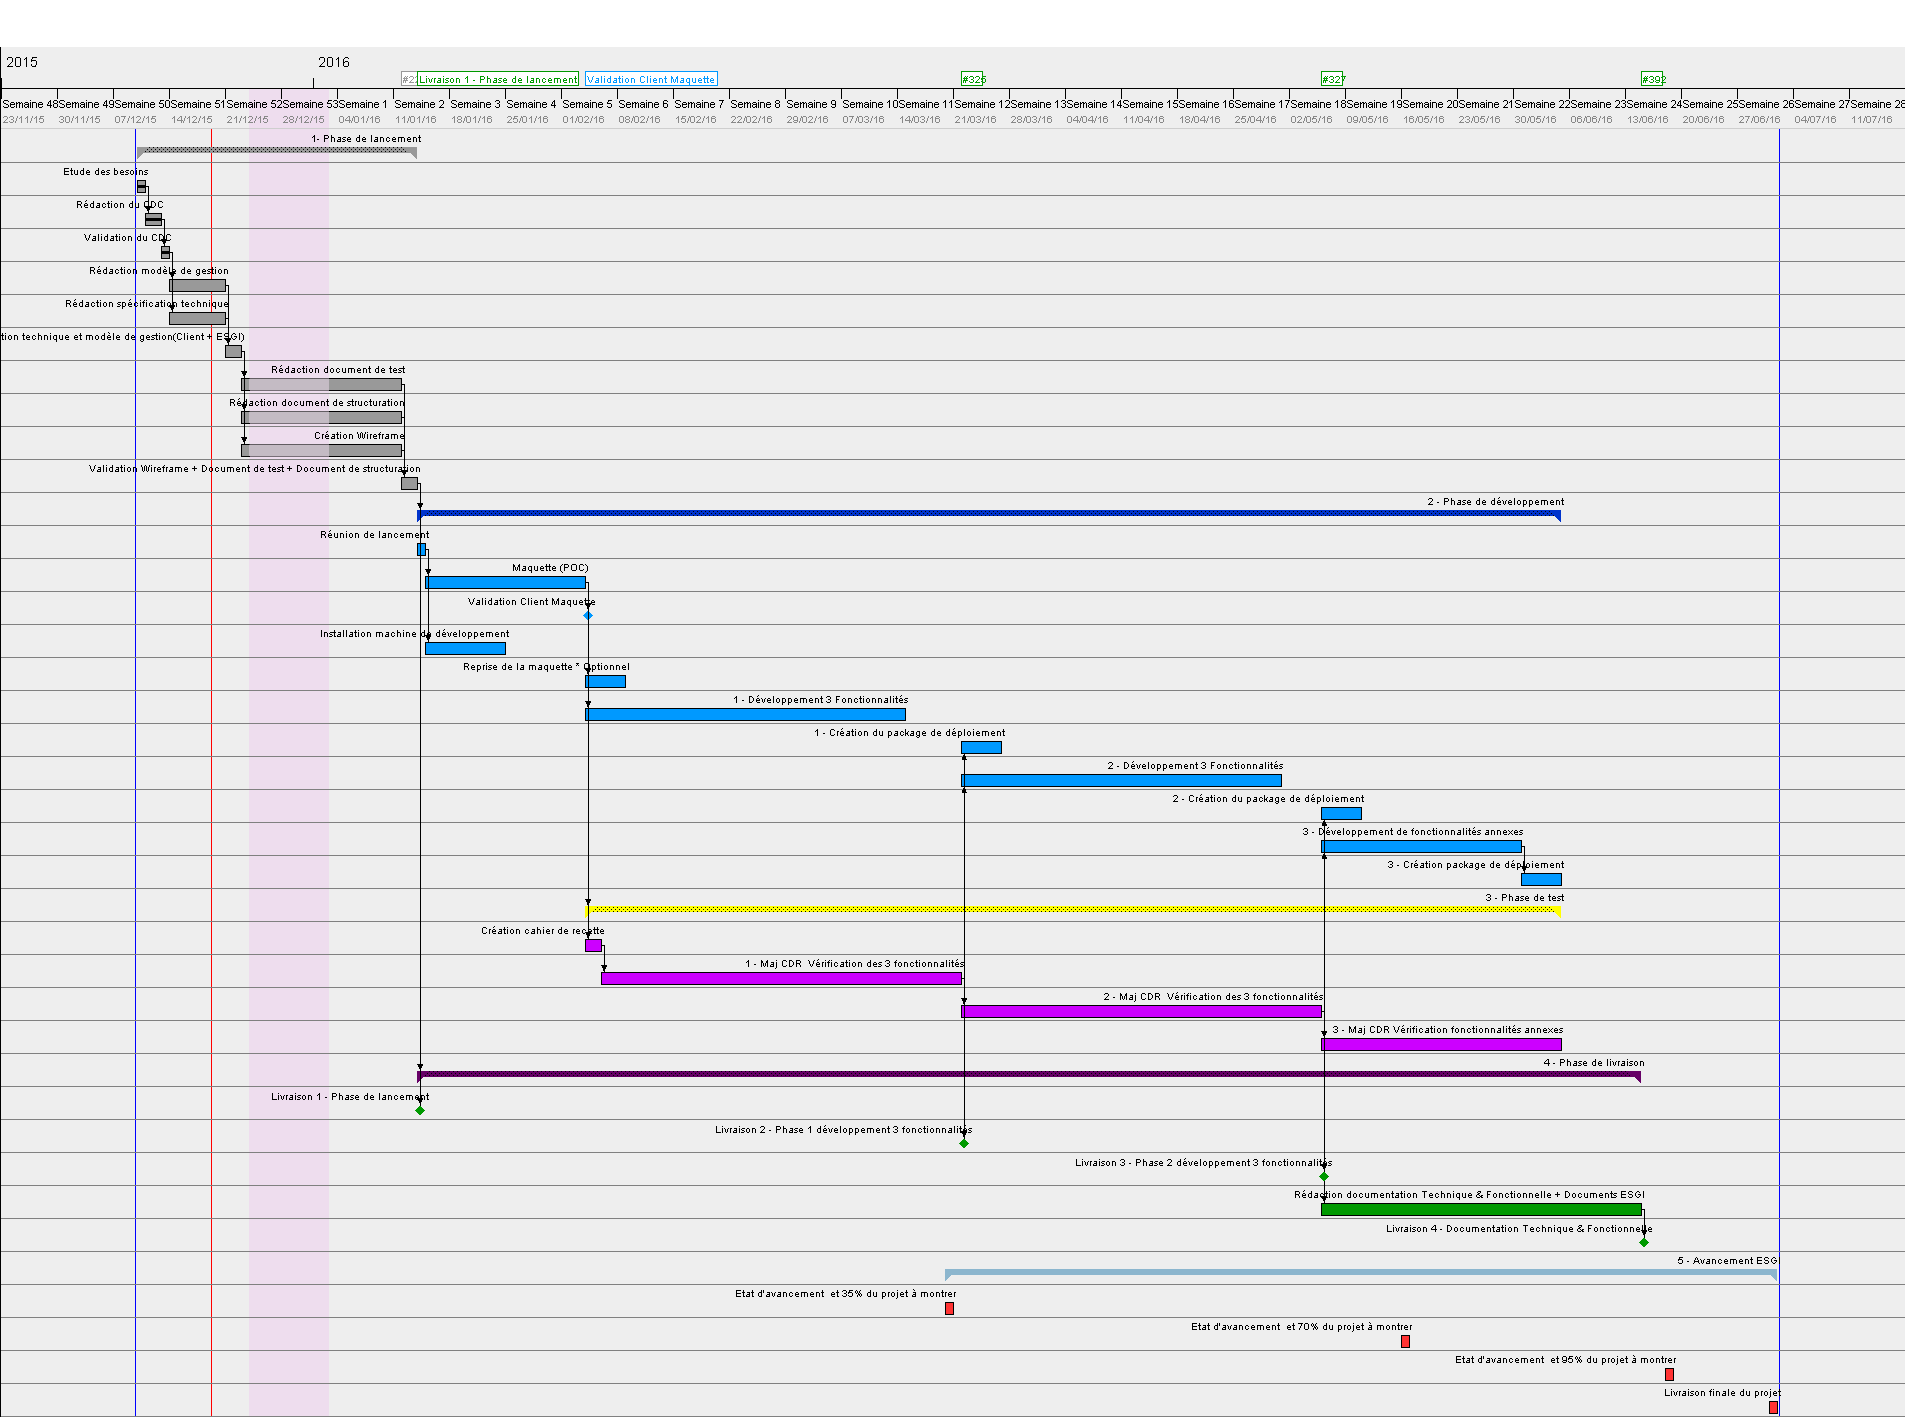
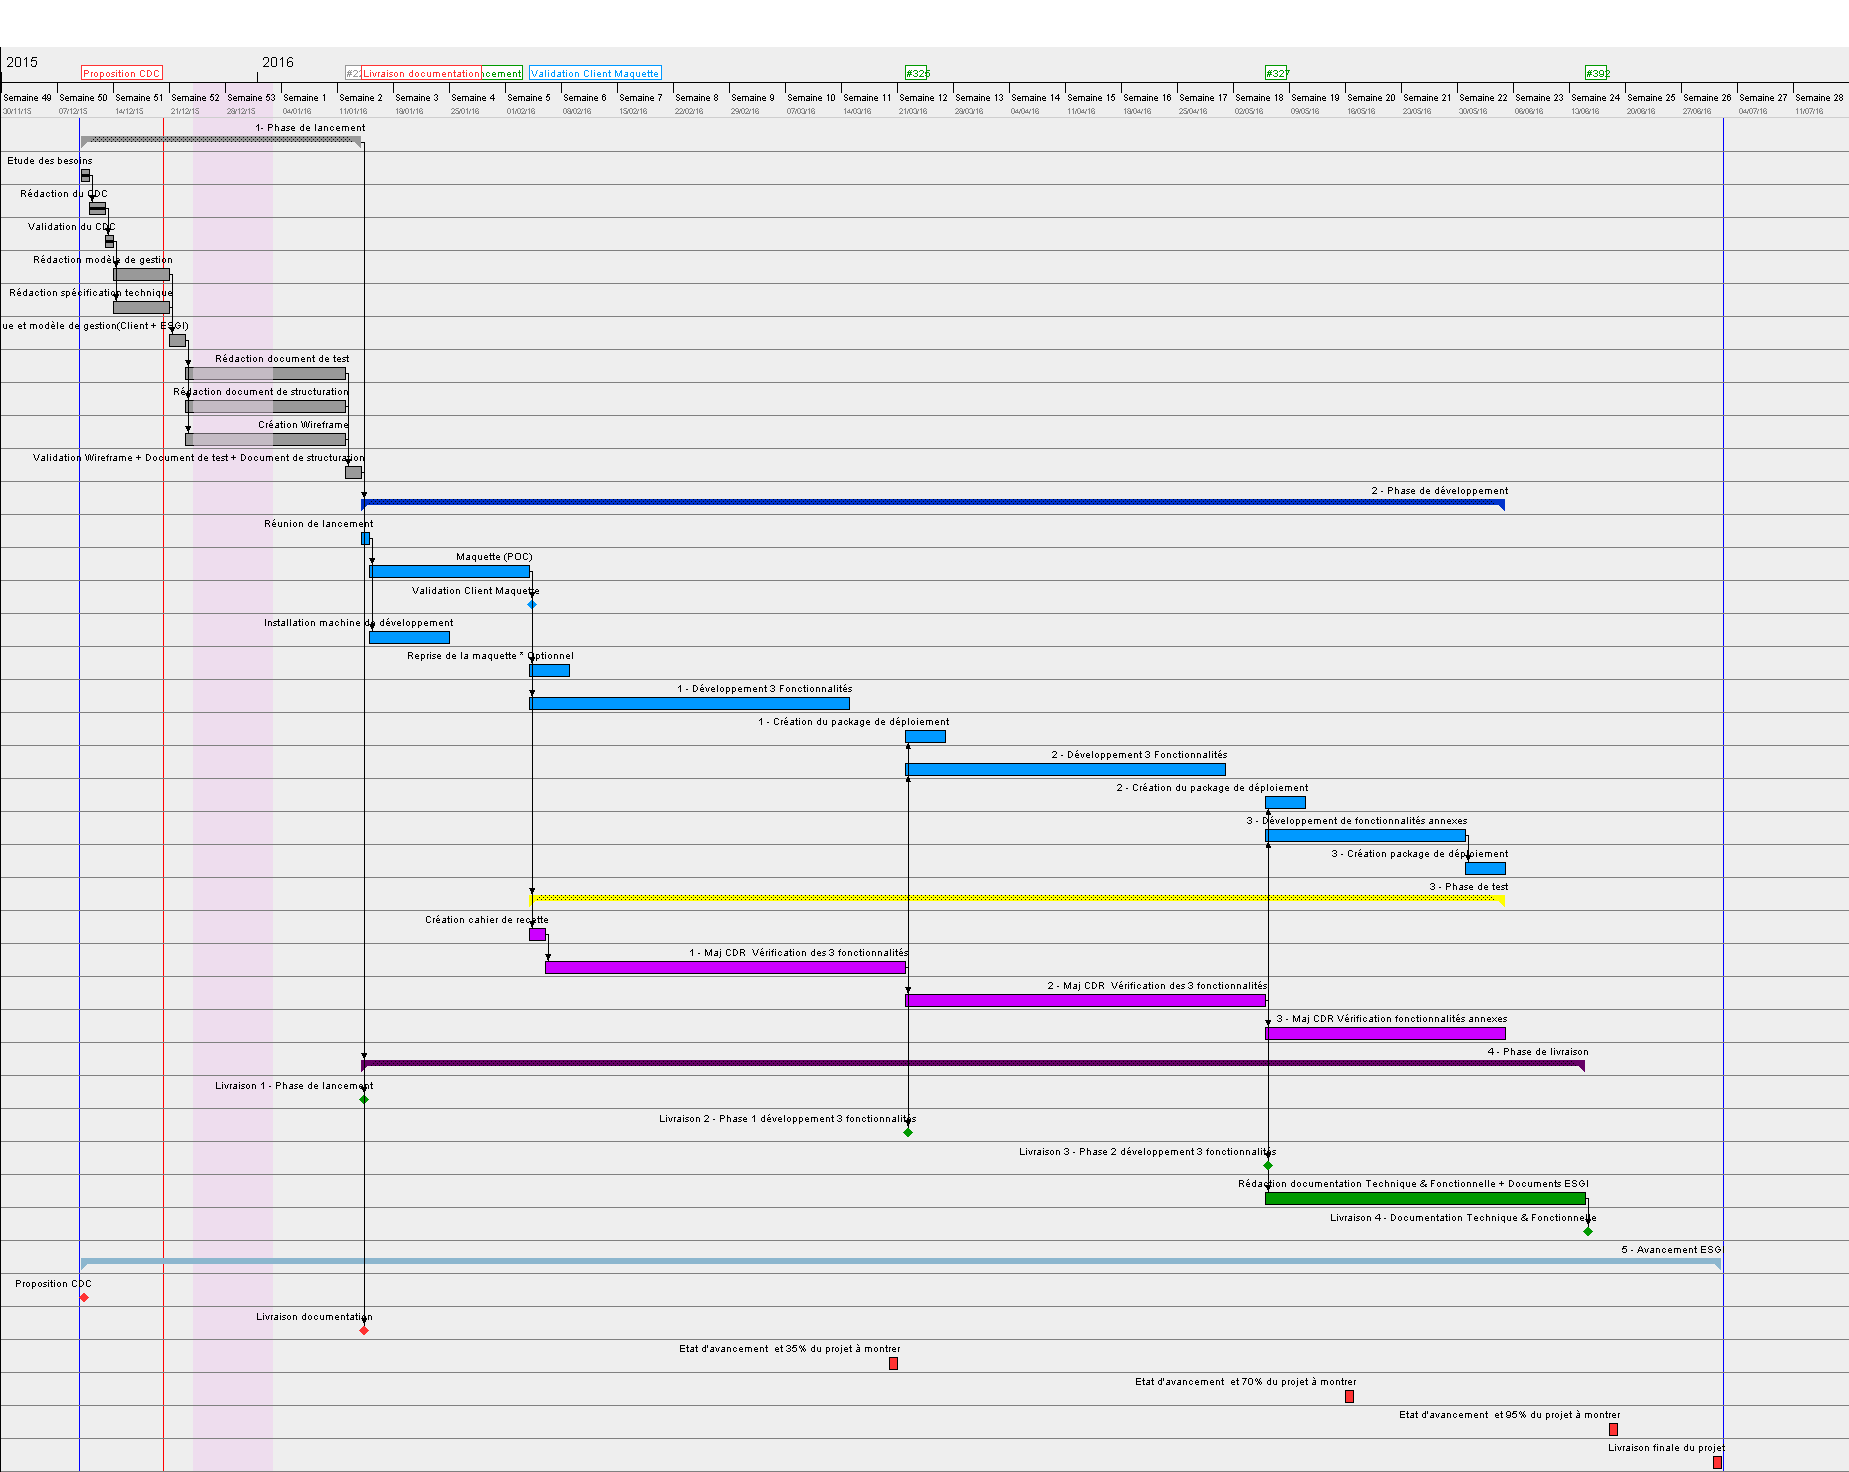
MAJ Gantt

Changed region(s): [[0.0, 0.0311, 1.0, 1.0], [0.185, 0.1553, 0.2158, 0.2174]]

diff --git a/1- Documents ESGI/Planning/Planning-tasks.html b/1- Documents ESGI/Planning/Planning-tasks.html
@@ -584,7 +584,7 @@ h5.header {
 <div style="margin:0; padding:0; padding-left:0.5em">
 <div style="margin: 0; padding: 0;">14/06/16</div>
 </div>
-</td><td valign="top" class="cell">Ivan KLARMAN, Guillaume VILLEREZ, Damien DIRAME</td>
+</td><td valign="top" class="cell">Ivan KLARMAN, Damien DIRAME, Guillaume VILLEREZ</td>
 </tr>
 <tr>
 <td valign="top" class="cell">
@@ -668,13 +668,43 @@ h5.header {
 </div>
 </td><td valign="top" class="cell">
 <div style="margin:0; padding:0; padding-left:0.5em">
-<div style="margin: 0; padding: 0;">20/03/16</div>
+<div style="margin: 0; padding: 0;">10/12/15</div>
 </div>
 </td><td valign="top" class="cell">
 <div style="margin:0; padding:0; padding-left:0.5em">
 <div style="margin: 0; padding: 0;">01/07/16</div>
 </div>
 </td><td valign="top" class="cell">Ivan KLARMAN, Damien DIRAME, Guillaume VILLEREZ</td>
+</tr>
+<tr>
+<td valign="top" class="cell">
+<div style="margin:0; padding:0; padding-left:0.5em">
+<div style="margin: 0; padding: 0;">Proposition CDC</div>
+</div>
+</td><td valign="top" class="cell">
+<div style="margin:0; padding:0; padding-left:0.5em">
+<div style="margin: 0; padding: 0;">10/12/15</div>
+</div>
+</td><td valign="top" class="cell">
+<div style="margin:0; padding:0; padding-left:0.5em">
+<div style="margin: 0; padding: 0;">10/12/15</div>
+</div>
+</td><td valign="top" class="cell"></td>
+</tr>
+<tr>
+<td valign="top" class="cell">
+<div style="margin:0; padding:0; padding-left:0.5em">
+<div style="margin: 0; padding: 0;">Livraison documentation</div>
+</div>
+</td><td valign="top" class="cell">
+<div style="margin:0; padding:0; padding-left:0.5em">
+<div style="margin: 0; padding: 0;">14/01/16</div>
+</div>
+</td><td valign="top" class="cell">
+<div style="margin:0; padding:0; padding-left:0.5em">
+<div style="margin: 0; padding: 0;">14/01/16</div>
+</div>
+</td><td valign="top" class="cell"></td>
 </tr>
 <tr>
 <td valign="top" class="cell">
@@ -743,7 +773,7 @@ h5.header {
 <tr>
 <td bgcolor="#6d9ec6" width="50%"><font color="#FFFFFF"><b>Ganttproject (2.7.1 Ostrava (build 1924))</b></font></td><td bgcolor="#6d9ec6" width="50%" align="right"><b><a href="http://ganttproject.biz">ganttproject.biz</a></b>
 <br>
-<b>19/12/15 - 07:24:00</b></td>
+<b>20/12/15 - 03:43:41</b></td>
 </tr>
 </table>
 </body>

diff --git a/1- Documents ESGI/Planning/Planning-resources.html b/1- Documents ESGI/Planning/Planning-resources.html
@@ -144,17 +144,19 @@ h5.header {
 <td valign="top" class="header">
 <h5 class="header">Nom</h5>
 </td><td valign="top" class="header">
+<h5 class="header">R&ocirc;le par d&eacute;faut</h5>
+</td><td valign="top" class="header">
 <h5 class="header">R&ocirc;le</h5>
 </td>
 </tr>
 <tr>
-<td valign="top" class="cell">Ivan KLARMAN</td><td valign="top" class="cell">Chef de projets/D&eacute;veloppeur</td>
+<td valign="top" class="cell">Ivan KLARMAN</td><td valign="top" class="cell">Chef de projet</td><td valign="top" class="cell">Chef de projets/D&eacute;veloppeur</td>
 </tr>
 <tr>
-<td valign="top" class="cell">Damien DIRAME</td><td valign="top" class="cell">D&eacute;veloppeur</td>
+<td valign="top" class="cell">Damien DIRAME</td><td valign="top" class="cell"></td><td valign="top" class="cell">D&eacute;veloppeur</td>
 </tr>
 <tr>
-<td valign="top" class="cell">Guillaume VILLEREZ</td><td valign="top" class="cell">D&eacute;veloppeur</td>
+<td valign="top" class="cell">Guillaume VILLEREZ</td><td valign="top" class="cell"></td><td valign="top" class="cell">D&eacute;veloppeur</td>
 </tr>
 </table>
 <br>
@@ -166,7 +168,7 @@ h5.header {
 <tr>
 <td bgcolor="#6d9ec6" width="50%"><font color="#FFFFFF"><b>Ganttproject (2.7.1 Ostrava (build 1924))</b></font></td><td bgcolor="#6d9ec6" width="50%" align="right"><b><a href="http://ganttproject.biz">ganttproject.biz</a></b>
 <br>
-<b>19/12/15 - 07:24:00</b></td>
+<b>20/12/15 - 03:43:41</b></td>
 </tr>
 </table>
 </body>

diff --git a/1- Documents ESGI/Planning/Planning-chart.html b/1- Documents ESGI/Planning/Planning-chart.html
@@ -122,7 +122,7 @@ div.page_links {
 <tr>
 <td bgcolor="#6d9ec6" width="50%"><font color="#FFFFFF"><b>Ganttproject (2.7.1 Ostrava (build 1924))</b></font></td><td bgcolor="#6d9ec6" width="50%" align="right"><b><a href="http://ganttproject.biz">ganttproject.biz</a></b>
 <br>
-<b>19/12/15 - 07:24:00</b></td>
+<b>20/12/15 - 03:43:41</b></td>
 </tr>
 </table>
 </body>

diff --git a/1- Documents ESGI/Planning/Planning.html b/1- Documents ESGI/Planning/Planning.html
@@ -152,7 +152,7 @@ div.page_links {
 <tr>
 <td bgcolor="#6d9ec6" width="50%"><font color="#FFFFFF"><b>Ganttproject (2.7.1 Ostrava (build 1924))</b></font></td><td bgcolor="#6d9ec6" width="50%" align="right"><b><a href="http://ganttproject.biz">ganttproject.biz</a></b>
 <br>
-<b>19/12/15 - 07:24:00</b></td>
+<b>20/12/15 - 03:43:41</b></td>
 </tr>
 </table>
 </body>
